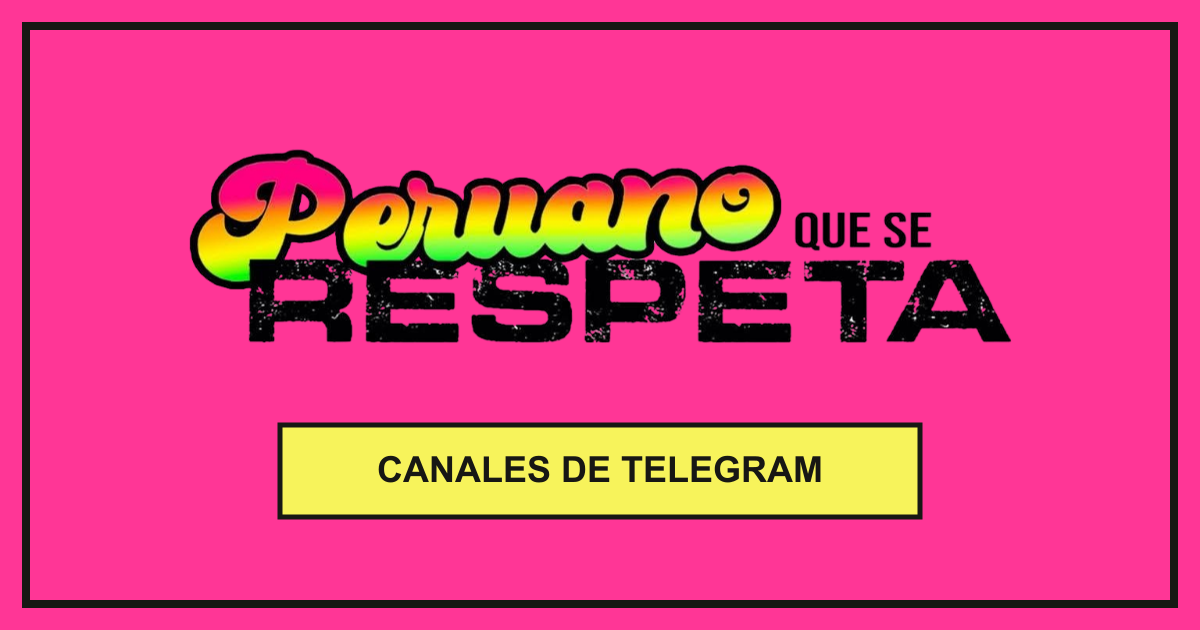
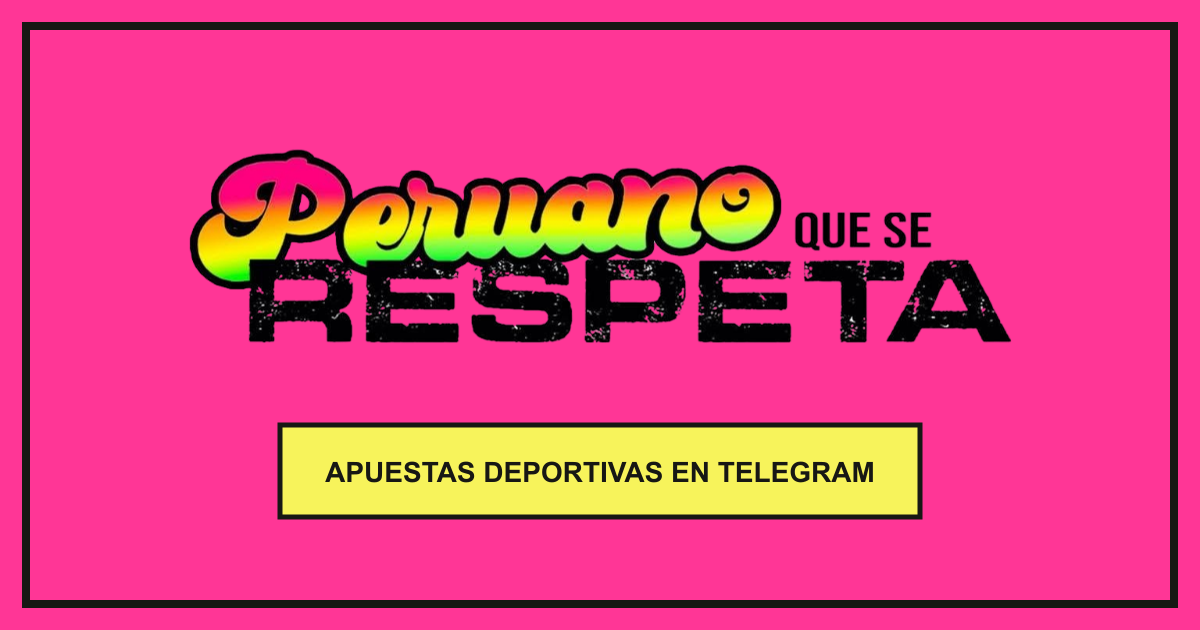
feat: focus homepage SEO on sports betting and Telegram

Changed region(s): [[0.2775, 0.7238, 0.74, 0.7841]]

diff --git a/src/styles/global.css b/src/styles/global.css
@@ -29,6 +29,15 @@ body { margin: 0; }
 .campaign-photo { display: block; object-fit: contain; transition: transform 350ms ease; }
 .campaign:focus-visible { outline: 3px solid var(--color-ink); outline-offset: 4px; }
 .colophon { flex: 0 0 auto; font-size: 8px; font-weight: 600; letter-spacing: .07em; }
+.channel-guide { max-width: 1100px; margin: 0 auto; padding: clamp(32px, 6vw, 72px) 20px; border-top: 2px solid var(--color-ink); }
+.channel-guide h1 { font-family: var(--font-display); font-size: clamp(32px, 5vw, 56px); line-height: 1.15; }
+.guide-subtitle { margin: 16px 0 32px; font-size: clamp(16px, 2vw, 20px); }
+.guide-columns { display: grid; grid-template-columns: repeat(2, minmax(0, 1fr)); gap: 40px; }
+.channel-guide h2 { margin: 24px 0 12px; font-size: 20px; font-weight: 800; line-height: 1.35; }
+.guide-columns p { margin-bottom: 16px; line-height: 1.75; }
+.guide-link { display: inline-block; padding: 12px 16px; background: var(--color-acid-yellow); border: 2px solid var(--color-ink); font-weight: 700; }
+.guide-link:focus-visible { outline: 3px solid var(--color-ink); outline-offset: 4px; }
+@media (max-width: 700px) { .guide-columns { grid-template-columns: 1fr; gap: 8px; } }
 
 @keyframes poster-arrive {
   from { opacity: 0; transform: scale(.97); }

diff --git a/src/data/site.ts b/src/data/site.ts
@@ -1,7 +1,9 @@
 export const site = {
   url: 'https://www.peruanoqueserespeta.com/',
-  name: 'Peruano que se respeta',
-  title: 'Peruano que se respeta | Canales de Telegram',
-  description: 'Encuentra los cuatro canales de Telegram de Peruano que se respeta. Elige un canal y entra directamente desde nuestra página.',
+  name: 'Peruano que se Respeta',
+  title: 'Peruano que se Respeta | Apuestas Deportivas en Telegram',
+  description: 'Peruano que se Respeta: acceso a canales de Telegram sobre apuestas deportivas, pronósticos y entretenimiento en Perú. Entra y descubre más.',
   image: '/social-preview.png',
+  logo: '/logo.png',
+  socialDescription: 'Apuestas deportivas, Telegram y entretenimiento.',
 };

diff --git a/docs/SEO.md b/docs/SEO.md
@@ -2,7 +2,8 @@
 
 Dominio principal: https://www.peruanoqueserespeta.com/
 El dominio sin www debe mantener su redirección 308 hacia www en Vercel.
-Las mejoras están enfocadas en las búsquedas de la marca y sus canales de Telegram.
+Las mejoras están enfocadas en la marca, apuestas deportivas en Telegram y entretenimiento en Perú.
+La primera pantalla conserva los cuatro accesos; debajo hay contenido visible para explicar la página y cómo usar los canales.
 No garantizan una posición: Google decide cuándo indexa y cómo ordena los resultados.
 
 ## Después de fusionar y desplegar
@@ -19,9 +20,9 @@ No garantizan una posición: Google decide cuándo indexa y cómo ordena los res
 
 - Los metadatos y el dominio canónico se definen en `src/data/site.ts`; el dominio de Astro también está en `astro.config.mjs`.
 - Sitemap y robots se generan durante el build, sin servicios adicionales.
-- La imagen para compartir se genera con `node scripts/generate-social-image.mjs` y se entrega en `public/social-preview.png`.
+- La imagen para compartir y el logo de Organization se generan con `node scripts/generate-social-image.mjs` y se entregan en `public/social-preview.png` y `public/logo.png`.
 - Mantén enlaces a esta web desde los perfiles y canales reales de la marca, con su nombre correcto.
-- Para competir por otras búsquedas hará falta contenido visible y útil relacionado con esas búsquedas. Una página con cuatro enlaces tiene un alcance limitado para temas amplios.
+- Para ampliar la captación, una fase posterior puede incorporar guías sobre canales de apuestas en Telegram y conceptos deportivos. Cada guía debe responder a una pregunta distinta con contenido útil, ejemplos y revisión del responsable de la marca; no publicar páginas duplicadas que solo cambien palabras clave.
 - No agregues listas ocultas de palabras clave ni afirmaciones, reseñas o datos estructurados inventados.
 
 Referencias: https://developers.google.com/search/docs/fundamentals/seo-starter-guide y https://developers.google.com/search/docs/crawling-indexing/ask-google-to-recrawl
